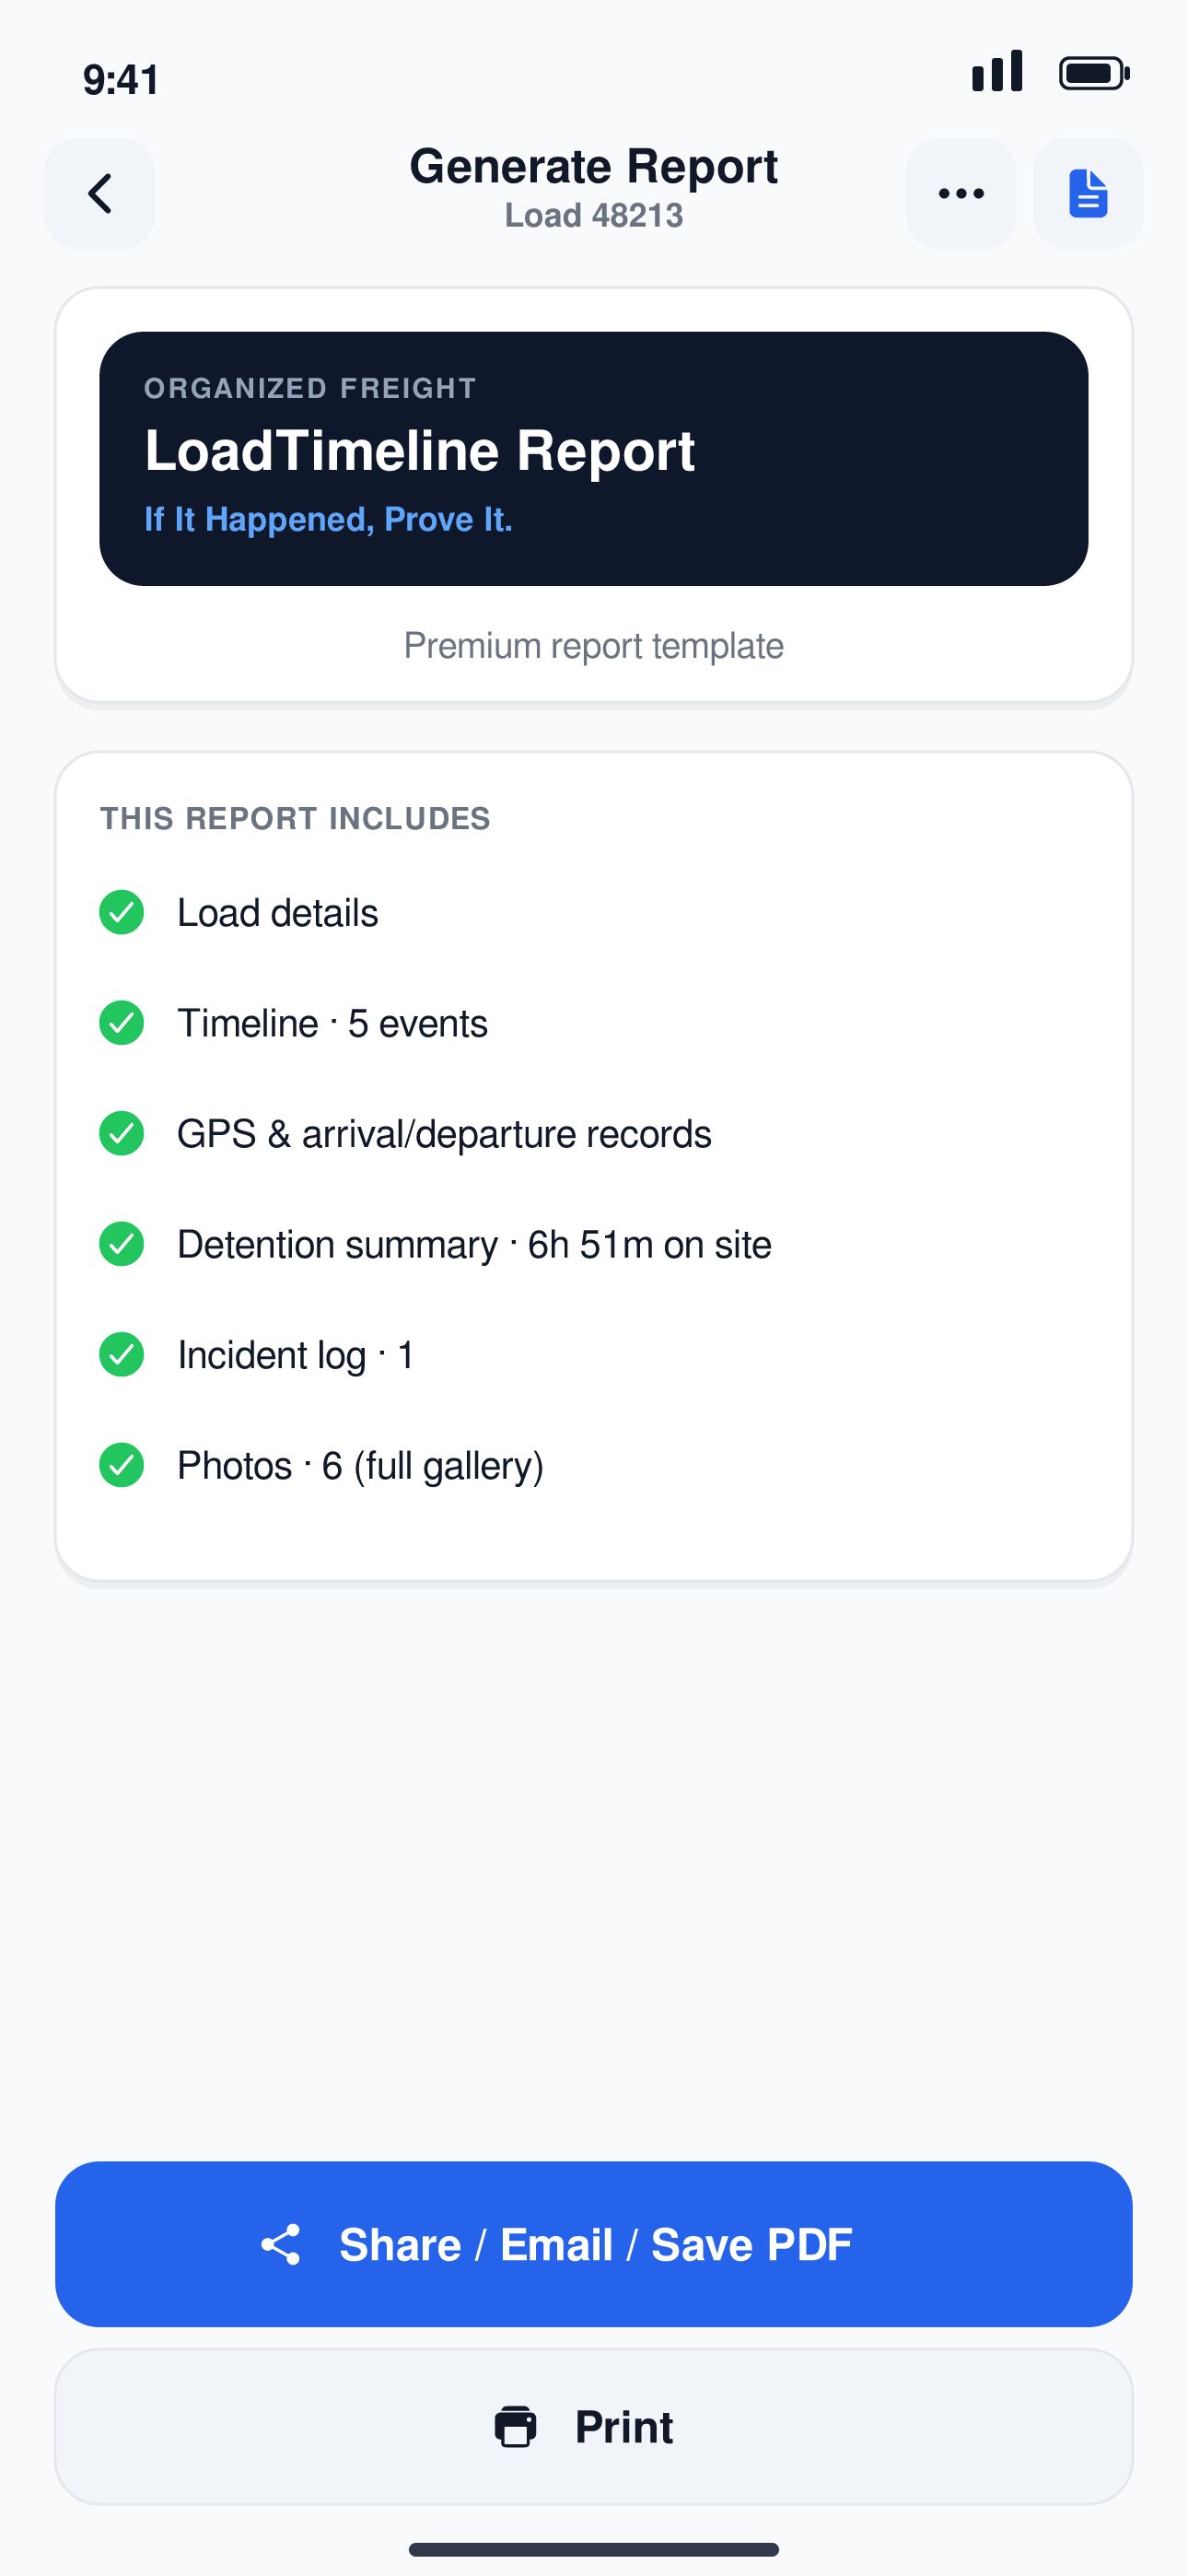
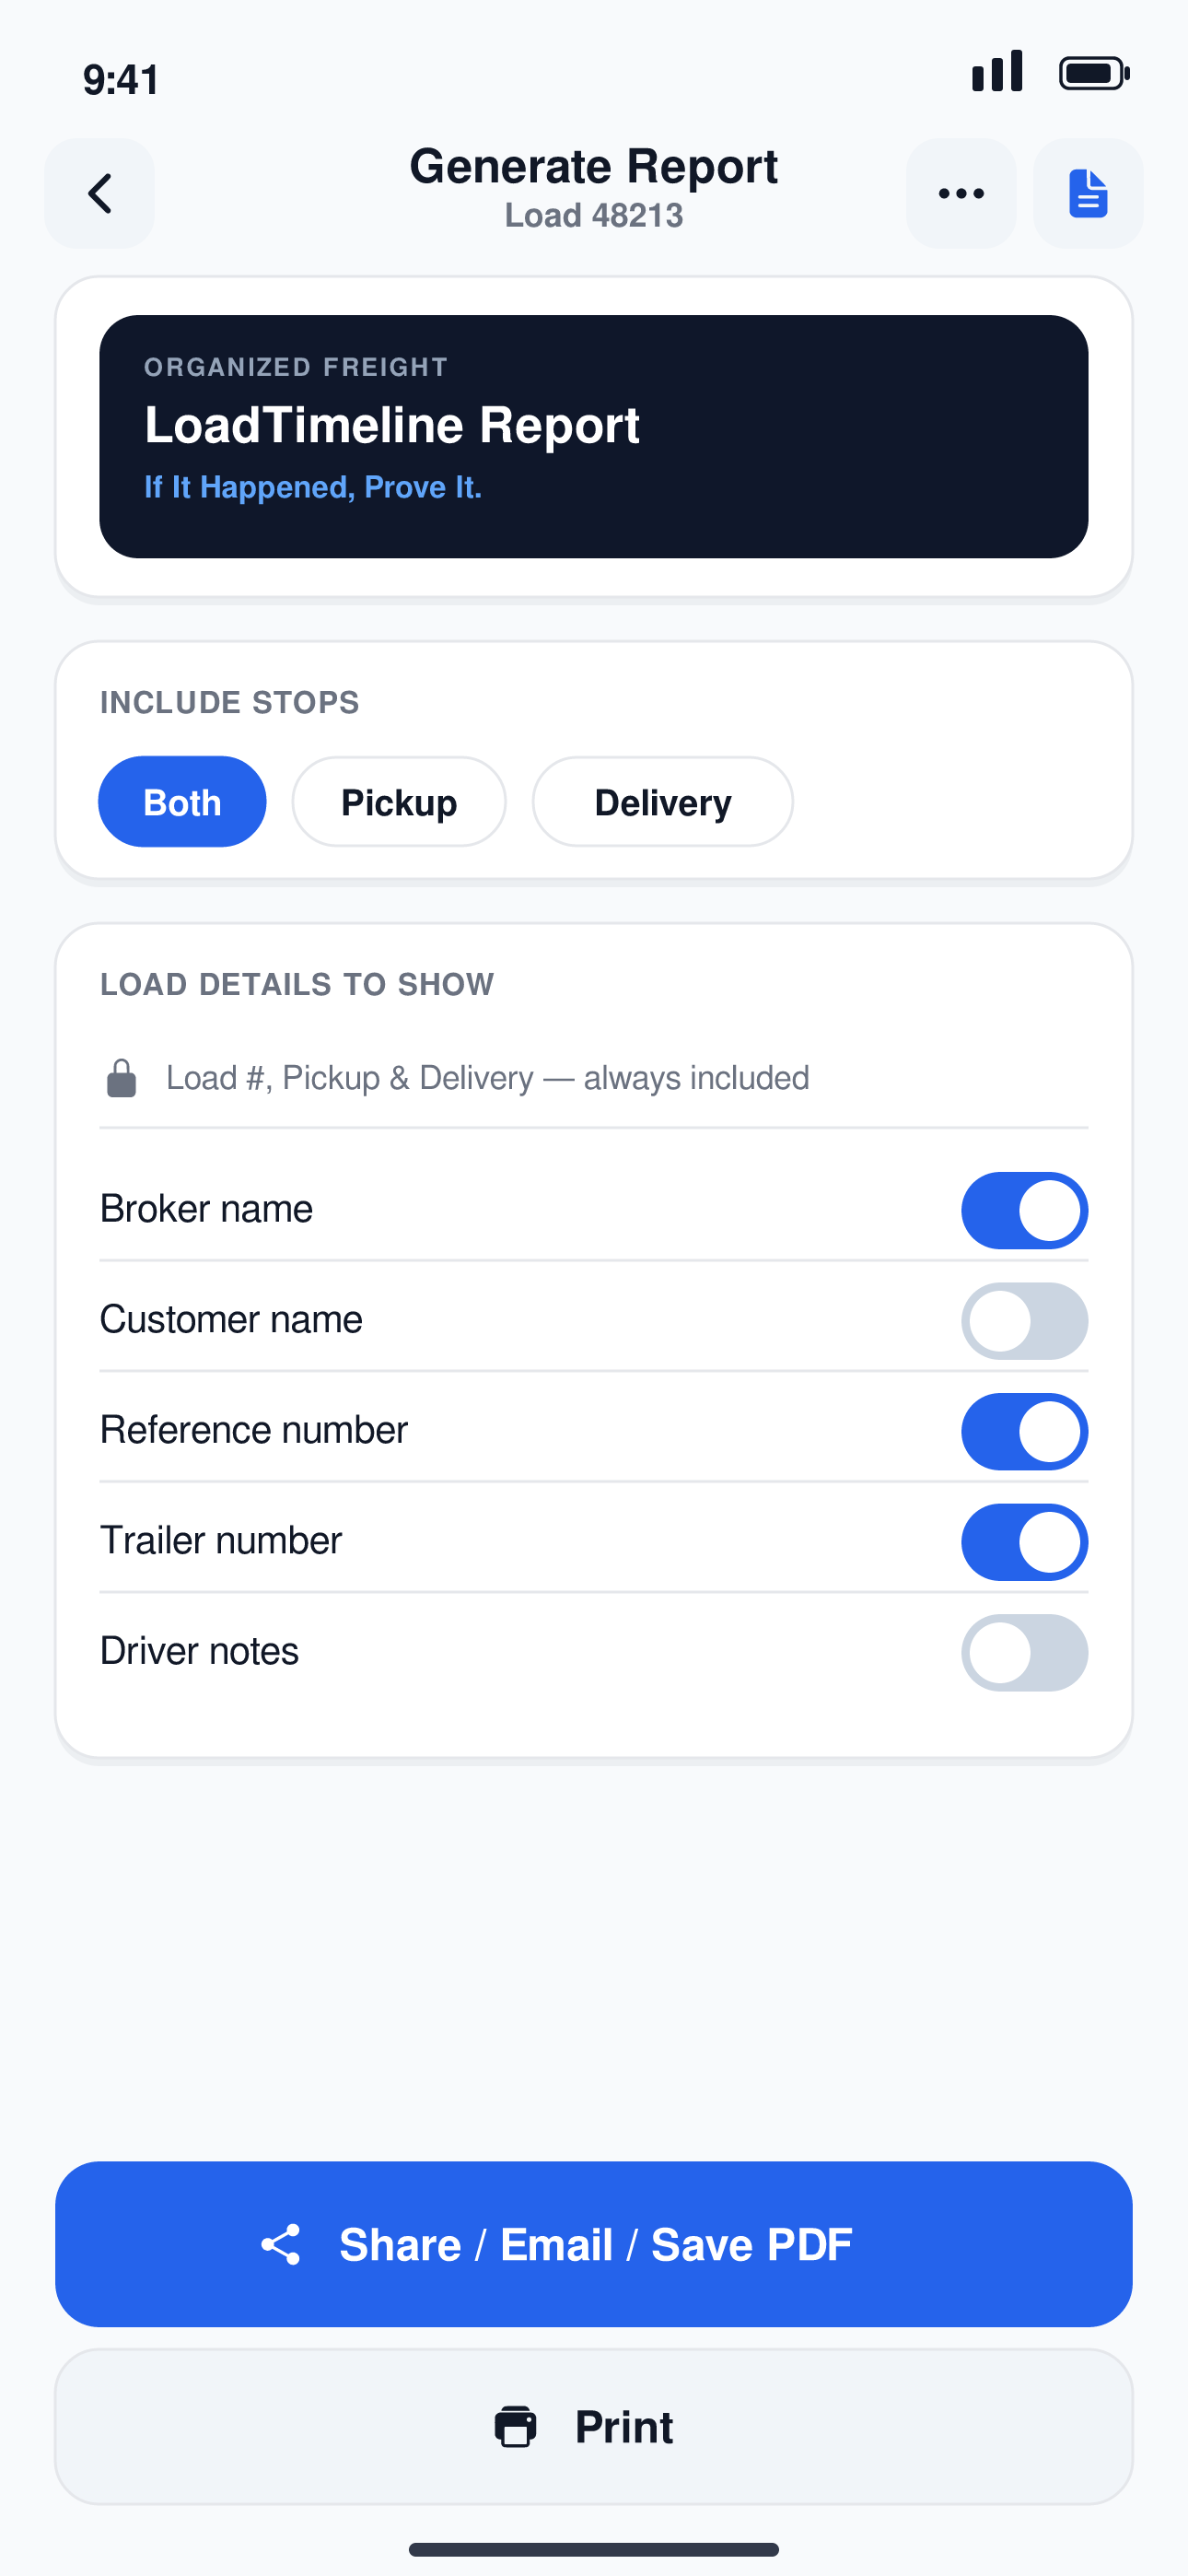
Report options: choose stops and toggle which details are shared
Give the driver control over the shared PDF for relevance and privacy.

- Stop scope: Pickup only, Delivery only, or Both — filters timeline and
  detention sections (report subtitle notes the scope)
- Detail toggles: Broker, Customer, Reference #, Trailer #, Status, Driver
  Notes can each be hidden. Load Number, Pickup and Delivery are always
  included so the document stays meaningful
- Report screen: stop chips + per-field switches; the "includes" preview
  reflects the selected stops
- Report App Store screenshot updated to show the new options

Claude-Session: https://claude.ai/code/session_01D5WCU7fuawkJvWqPnfvyy4

diff --git a/app/load/[id]/report.tsx b/app/load/[id]/report.tsx
@@ -1,17 +1,32 @@
 import React, { useState } from 'react';
-import { Alert, StyleSheet, Text, View } from 'react-native';
+import { Alert, StyleSheet, Switch, Text, View } from 'react-native';
 import { useLocalSearchParams, useRouter } from 'expo-router';
 import { Ionicons } from '@expo/vector-icons';
-import { AppHeader, Button, Card, Screen } from '@/components';
+import { AppHeader, Button, Card, Chip, Screen } from '@/components';
 import { useTheme } from '@/theme/theme';
 import { useSettings } from '@/store/settings';
 import { getLoad } from '@/db/queries/loads';
 import { listEvents } from '@/db/queries/events';
 import { listIncidents } from '@/db/queries/incidents';
 import { listPhotosForLoad } from '@/db/queries/photos';
-import { printReport, shareReport } from '@/lib/pdf';
+import { printReport, shareReport, DEFAULT_REPORT_FIELDS, ReportFields, ReportStops } from '@/lib/pdf';
 import { computeDetention } from '@/lib/detention';
 import { formatDuration } from '@/lib/format';
+
+const STOP_OPTIONS: { value: ReportStops; label: string }[] = [
+  { value: 'both', label: 'Both' },
+  { value: 'pickup', label: 'Pickup' },
+  { value: 'delivery', label: 'Delivery' },
+];
+
+const FIELD_OPTIONS: { key: keyof ReportFields; label: string }[] = [
+  { key: 'broker', label: 'Broker name' },
+  { key: 'customer', label: 'Customer name' },
+  { key: 'reference', label: 'Reference number' },
+  { key: 'trailer', label: 'Trailer number' },
+  { key: 'status', label: 'Load status' },
+  { key: 'notes', label: 'Driver notes' },
+];
 
 export default function ReportScreen() {
   const t = useTheme();
@@ -26,6 +41,8 @@ export default function ReportScreen() {
   const detention = computeDetention(events);
 
   const [busy, setBusy] = useState<'share' | 'print' | null>(null);
+  const [stops, setStops] = useState<ReportStops>('both');
+  const [fields, setFields] = useState<ReportFields>({ ...DEFAULT_REPORT_FIELDS });
 
   if (!load) {
     return (
@@ -39,8 +56,9 @@ export default function ReportScreen() {
   const run = async (mode: 'share' | 'print') => {
     setBusy(mode);
     try {
-      if (mode === 'share') await shareReport(load.id, { premium: isPro });
-      else await printReport(load.id, { premium: isPro });
+      const opts = { premium: isPro, stops, fields };
+      if (mode === 'share') await shareReport(load.id, opts);
+      else await printReport(load.id, opts);
       incrementReports();
     } catch (e) {
       Alert.alert('Could not generate report', e instanceof Error ? e.message : 'Unknown error');
@@ -49,11 +67,15 @@ export default function ReportScreen() {
     }
   };
 
+  const shownEvents = events.filter((e) => stops === 'both' || e.stop === stops);
+  const onSiteMs =
+    stops === 'pickup' ? detention.pickup.onSiteMs : stops === 'delivery' ? detention.delivery.onSiteMs : detention.totalOnSiteMs;
+
   const includes = [
     { icon: 'information-circle', label: 'Load details', ok: true },
-    { icon: 'git-commit', label: `Timeline · ${events.length} events`, ok: events.length > 0 },
-    { icon: 'navigate', label: 'GPS & arrival/departure records', ok: events.some((e) => e.latitude != null) },
-    { icon: 'time', label: `Detention summary · ${formatDuration(detention.totalOnSiteMs)} on site`, ok: detention.totalOnSiteMs != null },
+    { icon: 'git-commit', label: `Timeline · ${shownEvents.length} events`, ok: shownEvents.length > 0 },
+    { icon: 'navigate', label: 'GPS & arrival/departure records', ok: shownEvents.some((e) => e.latitude != null) },
+    { icon: 'time', label: `Detention summary · ${formatDuration(onSiteMs)} on site`, ok: onSiteMs != null },
     { icon: 'warning', label: `Incident log · ${incidents.length}`, ok: incidents.length > 0 },
     { icon: 'images', label: `Photos · ${photoCount}${isPro ? ' (full gallery)' : ''}`, ok: photoCount > 0 },
   ] as const;
@@ -77,6 +99,47 @@ export default function ReportScreen() {
           </View>
           <Text style={[t.typography.body, { color: t.colors.textSecondary, textAlign: 'center' }]}>
             {isPro ? 'Premium report template' : 'Standard report template'}
+          </Text>
+        </Card>
+
+        {/* Which stops to include */}
+        <Card style={{ marginTop: 16, gap: 10 }}>
+          <Text style={[t.typography.label, { color: t.colors.textSecondary }]}>INCLUDE STOPS</Text>
+          <View style={styles.chips}>
+            {STOP_OPTIONS.map((o) => (
+              <Chip key={o.value} label={o.label} selected={stops === o.value} onPress={() => setStops(o.value)} />
+            ))}
+          </View>
+        </Card>
+
+        {/* Which details to show */}
+        <Card style={{ marginTop: 16, gap: 4 }}>
+          <Text style={[t.typography.label, { color: t.colors.textSecondary, marginBottom: 6 }]}>LOAD DETAILS TO SHOW</Text>
+          <View style={[styles.lockedRow, { borderBottomColor: t.colors.border }]}>
+            <Ionicons name="lock-closed" size={16} color={t.colors.textSecondary} />
+            <Text style={[t.typography.body, { color: t.colors.textSecondary, flex: 1 }]}>
+              Load #, Pickup & Delivery — always included
+            </Text>
+          </View>
+          {FIELD_OPTIONS.map((opt, idx) => (
+            <View
+              key={opt.key}
+              style={[
+                styles.toggleRow,
+                idx < FIELD_OPTIONS.length - 1 ? { borderBottomWidth: StyleSheet.hairlineWidth, borderBottomColor: t.colors.border } : null,
+              ]}
+            >
+              <Text style={[t.typography.body, { color: t.colors.text, flex: 1 }]}>{opt.label}</Text>
+              <Switch
+                value={fields[opt.key]}
+                onValueChange={(v) => setFields((prev) => ({ ...prev, [opt.key]: v }))}
+                trackColor={{ true: t.colors.accent, false: t.colors.border }}
+                thumbColor="#FFFFFF"
+              />
+            </View>
+          ))}
+          <Text style={[t.typography.caption, { color: t.colors.textSecondary, marginTop: 8 }]}>
+            Turn off any detail you don't want on the shared PDF — e.g. hide the customer or broker.
           </Text>
         </Card>
 
@@ -117,5 +180,8 @@ const styles = StyleSheet.create({
   hero: { gap: 12, alignItems: 'stretch' },
   badge: { borderRadius: 16, padding: 16, gap: 2 },
   row: { flexDirection: 'row', alignItems: 'center', gap: 12 },
+  chips: { flexDirection: 'row', gap: 8 },
+  lockedRow: { flexDirection: 'row', alignItems: 'center', gap: 10, paddingVertical: 12, borderBottomWidth: StyleSheet.hairlineWidth },
+  toggleRow: { flexDirection: 'row', alignItems: 'center', paddingVertical: 8 },
   proCard: { marginTop: 16, flexDirection: 'row', alignItems: 'center', gap: 12, borderWidth: 1.5 },
 });

diff --git a/src/lib/pdf.ts b/src/lib/pdf.ts
@@ -25,13 +25,39 @@ function esc(value: string | null | undefined): string {
     .replace(/"/g, '&quot;');
 }
 
+export type ReportStops = 'pickup' | 'delivery' | 'both';
+
+export interface ReportFields {
+  broker: boolean;
+  customer: boolean;
+  reference: boolean;
+  trailer: boolean;
+  status: boolean;
+  notes: boolean;
+}
+
+export const DEFAULT_REPORT_FIELDS: ReportFields = {
+  broker: true,
+  customer: true,
+  reference: true,
+  trailer: true,
+  status: true,
+  notes: true,
+};
+
 interface ReportOptions {
   premium?: boolean;
+  stops?: ReportStops;
+  fields?: Partial<ReportFields>;
 }
 
 function buildHtml(loadId: string, opts: ReportOptions): string | null {
   const load = getLoad(loadId);
   if (!load) return null;
+
+  const stops = opts.stops ?? 'both';
+  const includeStop = (s: 'pickup' | 'delivery') => stops === 'both' || stops === s;
+  const f: ReportFields = { ...DEFAULT_REPORT_FIELDS, ...opts.fields };
 
   const events = listEvents(loadId);
   const incidents = listIncidents(loadId);
@@ -40,15 +66,17 @@ function buildHtml(loadId: string, opts: ReportOptions): string | null {
   const title = load.loadNumber ? `Load ${esc(load.loadNumber)}` : 'Load Documentation';
   const accent = brand.accent;
 
+  // Load Number, Pickup and Delivery are always included; the rest are
+  // optional so a driver can withhold who the customer/broker is.
   const detailRows: [string, string | null][] = [
     ['Load Number', load.loadNumber],
-    ['Broker', load.brokerName],
-    ['Customer', load.customerName],
     ['Pickup', load.pickupLocation],
     ['Delivery', load.deliveryLocation],
-    ['Reference #', load.referenceNumber],
-    ['Trailer #', load.trailerNumber],
-    ['Status', load.status === 'active' ? 'Active' : 'Completed'],
+    ...(f.broker ? ([['Broker', load.brokerName]] as [string, string | null][]) : []),
+    ...(f.customer ? ([['Customer', load.customerName]] as [string, string | null][]) : []),
+    ...(f.reference ? ([['Reference #', load.referenceNumber]] as [string, string | null][]) : []),
+    ...(f.trailer ? ([['Trailer #', load.trailerNumber]] as [string, string | null][]) : []),
+    ...(f.status ? ([['Status', load.status === 'active' ? 'Active' : 'Completed']] as [string, string | null][]) : []),
   ];
   const detailsHtml = detailRows
     .filter(([, v]) => v)
@@ -82,7 +110,7 @@ function buildHtml(loadId: string, opts: ReportOptions): string | null {
       </div>`;
   };
 
-  const timelineHtml = STOP_ORDER.map((s) => {
+  const timelineHtml = STOP_ORDER.filter(includeStop).map((s) => {
     const stopEvents = events.filter((e) => e.stop === s);
     if (stopEvents.length === 0) return '';
     const meta = STOP_META[s];
@@ -91,7 +119,7 @@ function buildHtml(loadId: string, opts: ReportOptions): string | null {
       <div class="stop-head">${esc(meta.label)}${loc ? ` · ${esc(loc)}` : ''}</div>
       ${stopEvents.map(eventRow).join('')}
     </div>`;
-  }).join('') || '<div class="muted">No events recorded.</div>';
+  }).join('') || '<div class="muted">No events recorded for the selected stops.</div>';
 
   const statCard = (label: string, value: string) =>
     `<div class="stat"><div class="stat-v">${esc(value)}</div><div class="stat-l">${esc(label)}</div></div>`;
@@ -109,12 +137,14 @@ function buildHtml(loadId: string, opts: ReportOptions): string | null {
     </div>`;
   };
 
-  const anyDetention = detention.pickup.hasActivity || detention.delivery.hasActivity;
+  const showPickupDet = includeStop('pickup') && detention.pickup.hasActivity;
+  const showDeliveryDet = includeStop('delivery') && detention.delivery.hasActivity;
+  const anyDetention = showPickupDet || showDeliveryDet;
   const detentionHtml = `
-    ${detention.pickup.hasActivity ? stopDetentionHtml(detention.pickup) : ''}
-    ${detention.delivery.hasActivity ? stopDetentionHtml(detention.delivery) : ''}
-    ${anyDetention ? `<div class="combined">Combined on site: <b>${formatDuration(detention.totalOnSiteMs)}</b> · Combined potential detention: <b>${formatDuration(detention.totalPotentialDetentionMs)}</b></div>` : '<div class="muted">No detention data yet.</div>'}
-    <div class="muted small">Free window: ${detention.pickup.freeMinutes / 60}h per stop. Potential detention is time on site beyond the free window.</div>
+    ${showPickupDet ? stopDetentionHtml(detention.pickup) : ''}
+    ${showDeliveryDet ? stopDetentionHtml(detention.delivery) : ''}
+    ${showPickupDet && showDeliveryDet ? `<div class="combined">Combined on site: <b>${formatDuration(detention.totalOnSiteMs)}</b> · Combined potential detention: <b>${formatDuration(detention.totalPotentialDetentionMs)}</b></div>` : ''}
+    ${anyDetention ? `<div class="muted small">Free window: ${detention.pickup.freeMinutes / 60}h per stop. Potential detention is time on site beyond the free window.</div>` : '<div class="muted">No detention data for the selected stops.</div>'}
   `;
 
   const incidentsHtml = incidents.length
@@ -155,7 +185,8 @@ function buildHtml(loadId: string, opts: ReportOptions): string | null {
         .join('')}</div></div>`
     : '';
 
-  const tplLabel = opts.premium ? 'Premium Report' : 'Standard Report';
+  const scopeLabel = stops === 'both' ? 'Pickup & Delivery' : stops === 'pickup' ? 'Pickup only' : 'Delivery only';
+  const tplLabel = `${opts.premium ? 'Premium Report' : 'Standard Report'} · ${scopeLabel}`;
 
   return `<!DOCTYPE html>
 <html>
@@ -231,7 +262,7 @@ function buildHtml(loadId: string, opts: ReportOptions): string | null {
 
   <div class="section"><h2>Incident Log</h2>${incidentsHtml}</div>
 
-  ${load.driverNotes ? `<div class="section"><h2>Driver Notes</h2><div class="tl-note">${esc(load.driverNotes)}</div></div>` : ''}
+  ${f.notes && load.driverNotes ? `<div class="section"><h2>Driver Notes</h2><div class="tl-note">${esc(load.driverNotes)}</div></div>` : ''}
 
   ${galleryHtml}
 

diff --git a/tools/screenshots.js b/tools/screenshots.js
@@ -341,29 +341,54 @@ function incidents() {
 }
 
 // ===================== SCREEN 5: REPORT =====================
+function toggle(x, y, on) {
+  const w = 46, h = 28;
+  let s = rect(x, y, w, h, 14, on ? C.accent : '#CBD5E1');
+  s += `<circle cx="${on ? x + w - 14 : x + 14}" cy="${y + h / 2}" r="11" fill="#fff"/>`;
+  return s;
+}
+
 function report() {
   let s = header('Generate Report', 'Load 48213');
-  // hero card with navy badge
-  let y = 104;
-  s += card(20, y, W - 40, 150);
-  s += rect(36, y + 16, W - 72, 92, 16, C.navy);
-  s += txt(52, y + 40, 'ORGANIZED FREIGHT', { size: 10, weight: 700, fill: '#94A3B8', ls: 1 });
-  s += txt(52, y + 66, 'LoadTimeline Report', { size: 20, weight: 700, fill: C.white });
-  s += txt(52, y + 88, 'If It Happened, Prove It.', { size: 12, weight: 600, fill: '#60A5FA' });
-  s += txt(W / 2, y + 134, 'Premium report template', { size: 13, weight: 500, fill: C.sec, anchor: 'middle' });
+  // compact hero
+  let y = 100;
+  s += card(20, 100, W - 40, 116);
+  s += rect(36, y + 14, W - 72, 88, 14, C.navy);
+  s += txt(52, y + 36, 'ORGANIZED FREIGHT', { size: 9, weight: 700, fill: '#94A3B8', ls: 1 });
+  s += txt(52, y + 60, 'LoadTimeline Report', { size: 18, weight: 700, fill: C.white });
+  s += txt(52, y + 80, 'If It Happened, Prove It.', { size: 11, weight: 600, fill: '#60A5FA' });
 
-  // includes card
-  let iy = y + 168;
-  s += card(20, iy, W - 40, 300);
-  s += txt(36, iy + 28, 'THIS REPORT INCLUDES', { size: 11, weight: 700, fill: C.sec, ls: 0.5 });
+  // include stops
+  let sy = 232;
+  s += card(20, sy, W - 40, 86);
+  s += txt(36, sy + 26, 'INCLUDE STOPS', { size: 11, weight: 700, fill: C.sec, ls: 0.5 });
+  const stops = [['Both', true], ['Pickup', false], ['Delivery', false]];
+  let cx = 36;
+  stops.forEach((st) => {
+    const tw = 26 + st[0].length * 8.5;
+    s += rect(cx, sy + 42, tw, 32, 16, st[1] ? C.accent : C.card, { stroke: st[1] ? C.accent : C.border });
+    s += txt(cx + tw / 2, sy + 63, st[0], { size: 13, weight: 600, fill: st[1] ? C.white : C.text, anchor: 'middle' });
+    cx += tw + 10;
+  });
+
+  // load details to show
+  let dy = 334;
   const rows = [
-    'Load details', 'Timeline · 5 events', 'GPS & arrival/departure records',
-    'Detention summary · 6h 51m on site', 'Incident log · 1', 'Photos · 6 (full gallery)',
+    ['Broker name', true], ['Customer name', false], ['Reference number', true],
+    ['Trailer number', true], ['Driver notes', false],
   ];
+  const cardH = 50 + 36 + rows.length * 40 + 16;
+  s += card(20, dy, W - 40, cardH);
+  s += txt(36, dy + 26, 'LOAD DETAILS TO SHOW', { size: 11, weight: 700, fill: C.sec, ls: 0.5 });
+  // locked row
+  s += icon(44, dy + 56, 'lock-closed', 15, C.sec);
+  s += txt(60, dy + 60, 'Load #, Pickup & Delivery — always included', { size: 12, weight: 500, fill: C.sec });
+  s += `<line x1="36" y1="${dy + 74}" x2="${W - 36}" y2="${dy + 74}" stroke="${C.border}" stroke-width="1"/>`;
   rows.forEach((r, i) => {
-    const ry = iy + 58 + i * 40;
-    s += icon(44, ry, 'checkmark-circle', 20, C.success);
-    s += txt(64, ry + 5, r, { size: 14, weight: 500 });
+    const ry = dy + 74 + 30 + i * 40;
+    s += txt(36, ry + 4, r[0], { size: 14, weight: 500 });
+    s += toggle(W - 36 - 46, ry - 14, r[1]);
+    if (i < rows.length - 1) s += `<line x1="36" y1="${ry + 18}" x2="${W - 36}" y2="${ry + 18}" stroke="${C.border}" stroke-width="1"/>`;
   });
 
   // share + print buttons